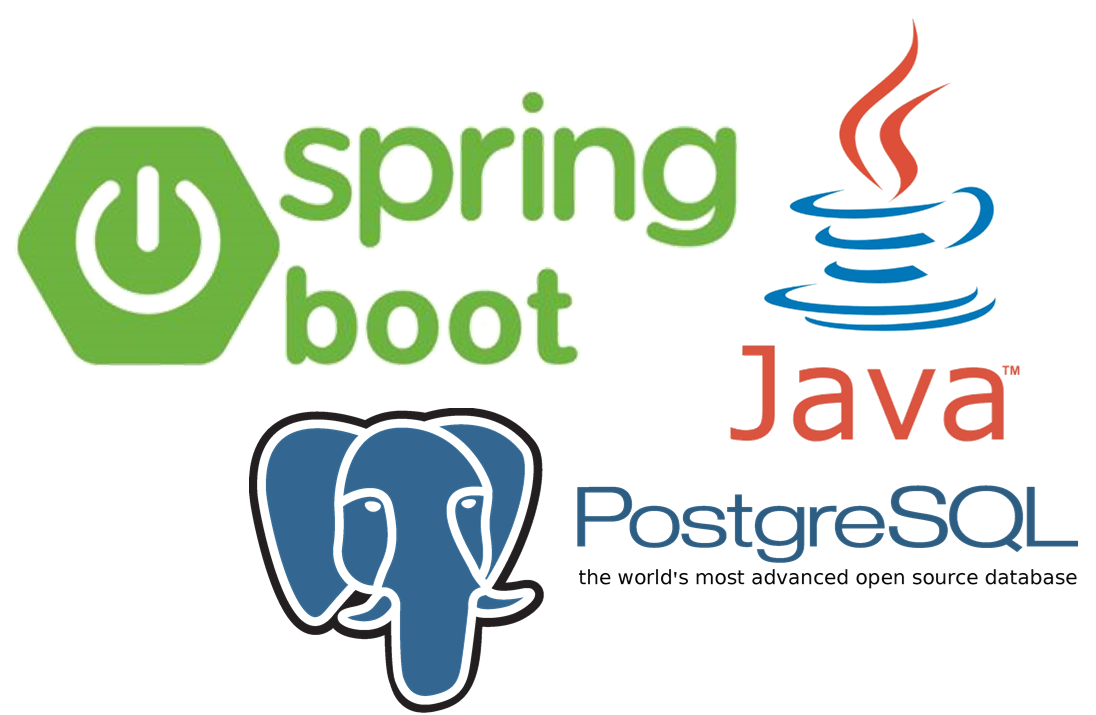
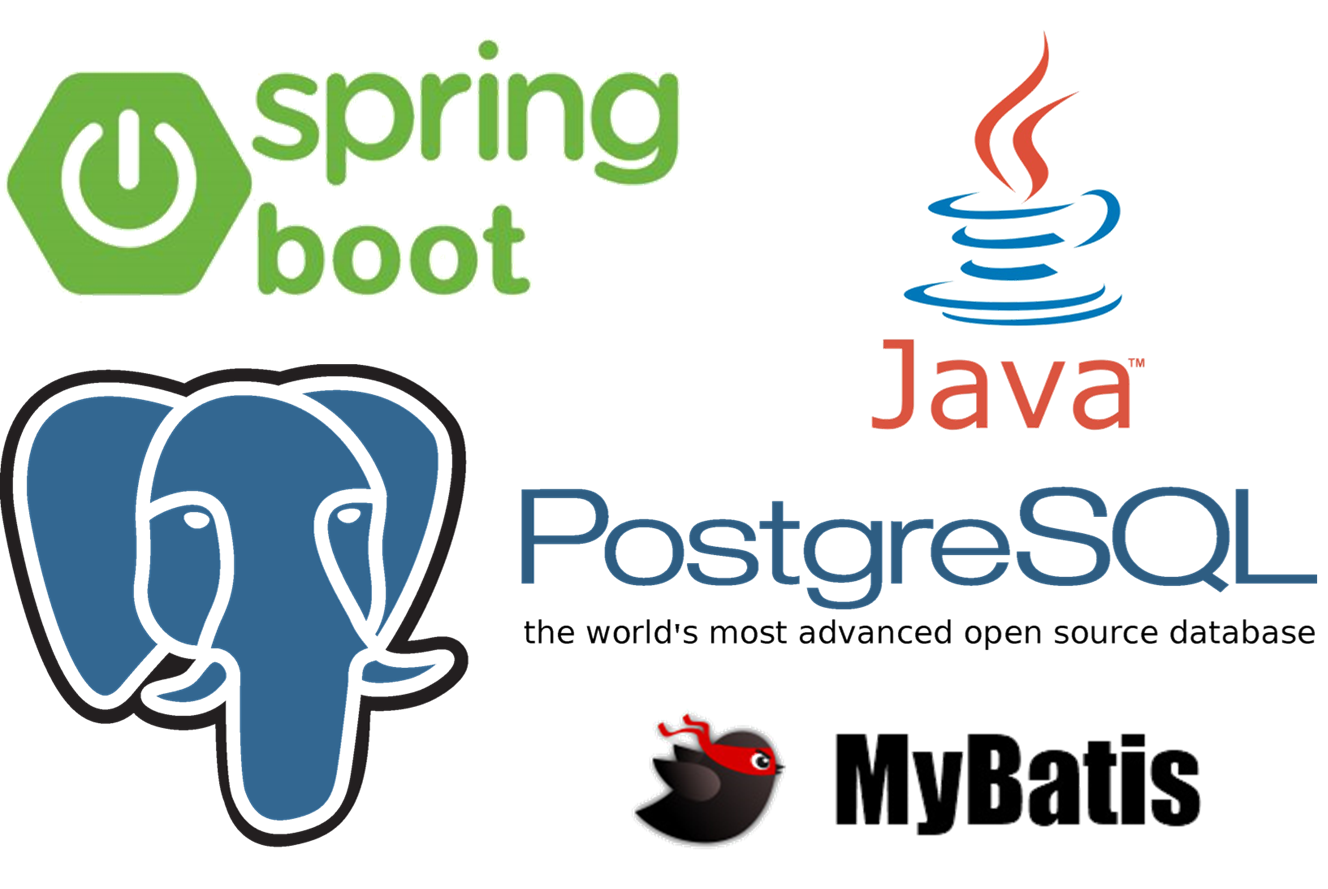
update recent works 20232006

diff --git a/index.html b/index.html
@@ -133,30 +133,30 @@
 						<!-- Four -->
 							<section id="four" class="wrapper alt style1">
 								<div class="inner">
-									<h2 class="major">Projects</h2>
+									<h2 class="major">Recent works</h2>
 									<section class="features">
 										<article>
-											<a href="#" class="image"><img src="images/backend.png" alt="" /></a>
+											<a class="image"><img src="images/backend.png" alt="" /></a>
 											<h3 class="major">Ecommerce Website back-end</h3>
-											<p>Technologies</p>
+											<p>Ecommerce mock system project (back-end)<br>Technologies used: Java, Spring boot, Mybatis, PostgreSQL</p>
 											<a href="https://github.com/kensukeseno/EcSiteSample_OnlineMarketHandmadeJewelry_backend" class="special">Go to codes</a>
 										</article>
 										<article>
-											<a href="#" class="image"><img src="images/frontend.png" alt="" /></a>
+											<a class="image"><img src="images/frontend.png" alt="" /></a>
 											<h3 class="major">Ecommerce Website front-end</h3>
-											<p>Technologies</p>
+											<p>Ecommerce mock system project (front-end)<br>Technologies used: React.js, TypeScript, Bootstrap, Node.js</p>
 											<a href="https://github.com/kensukeseno/EcSiteSample_OnlineMarketHandmadeJewelry_forntend" class="special">Go to codes</a>
 										</article>
 										<article>
-											<a href="#" class="image"><img src="images/pic06.jpg" alt="" /></a>
+											<a class="image"><img src="images/empSys.png" alt="" /></a>
 											<h3 class="major">Employee info management system</h3>
-											<p>Technologies</p>
+											<p>Database management system project<br>Technologies used: Java, PostgreSQL, CSS, Servlet JSP</p>
 											<a href="#" class="special">Go to codes</a>
 										</article>
 										<article>
-											<a href="#" class="image"><img src="images/hackerrank.jpg" alt="" /></a>
+											<a class="image"><img src="images/hackerrank.jpg" alt="" /></a>
 											<h3 class="major">Daily conding practice</h3>
-											<p>HackerRank problems</p>
+											<p>Improving understanding of algorithms and data structures by solving problems from HackerRank</p>
 											<a href="https://github.com/kensukeseno/-HackerRankProsSolutions" class="special">Go to codes</a>
 										</article>
 									</section>
@@ -169,20 +169,20 @@
 					<section id="footer">
 						<div class="inner">
 							<h2 class="major">Get in touch</h2>
-							<form method="post" action="#">
-								<div class="fields">
+							<form method="post" action="https://formspree.io/f/xzblkwvb">
+								<div class="fields">	
 									<div class="field">
 										<label for="name">Name</label>
-										<input type="text" name="name" id="name" />
+										<input name="Name" id="name" type="text">
 									</div>
 									<div class="field">
 										<label for="email">Email</label>
-										<input type="email" name="email" id="email" />
+										<input name="Email" id="email" type="email">
 									</div>
 									<div class="field">
 										<label for="message">Message</label>
-										<textarea name="message" id="message" rows="4"></textarea>
-									</div>
+										<input name="Message" id="message" type="text">
+									</div>							
 								</div>
 								<ul class="actions">
 									<li><input type="submit" value="Send Message" /></li>
